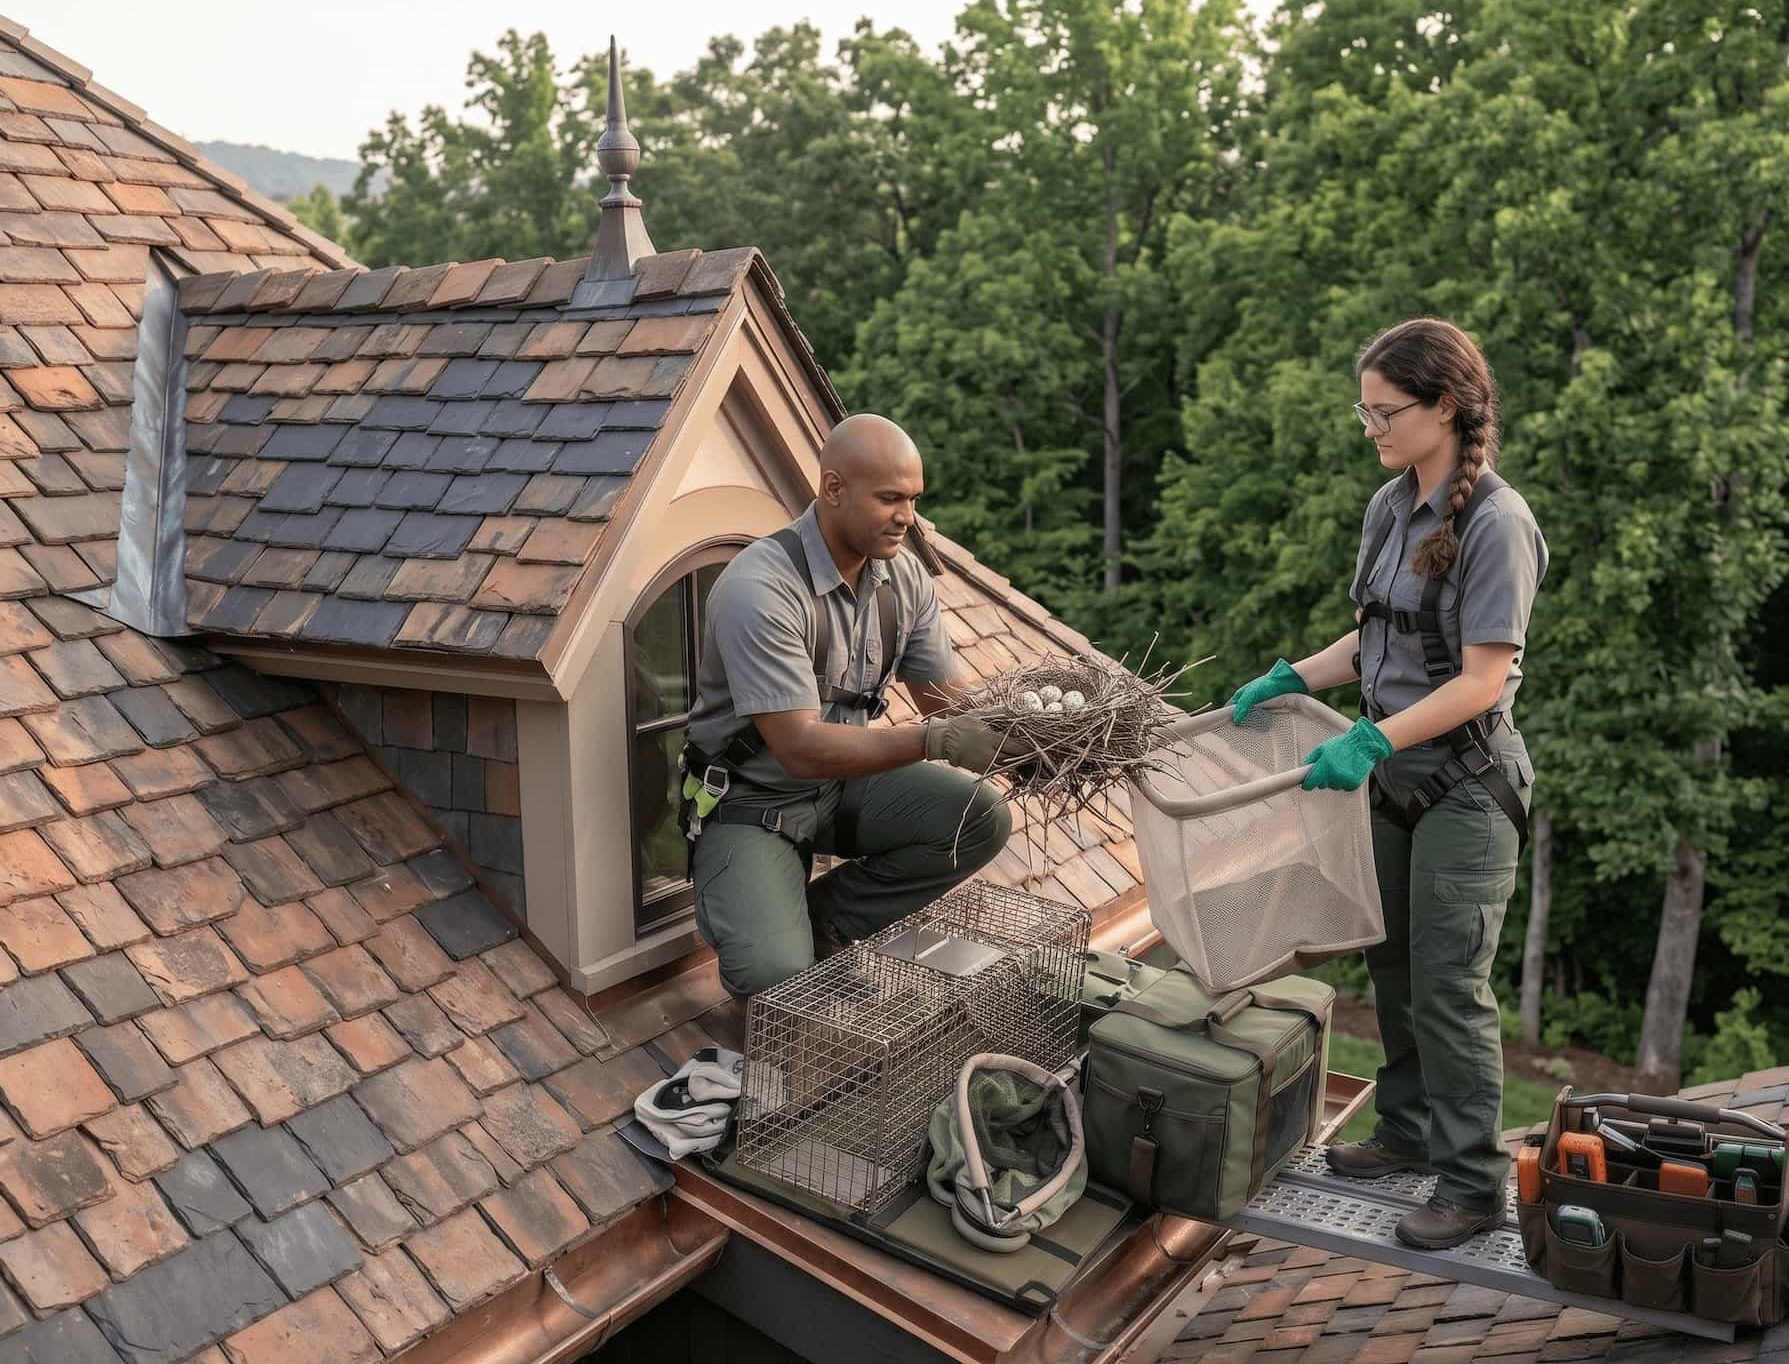
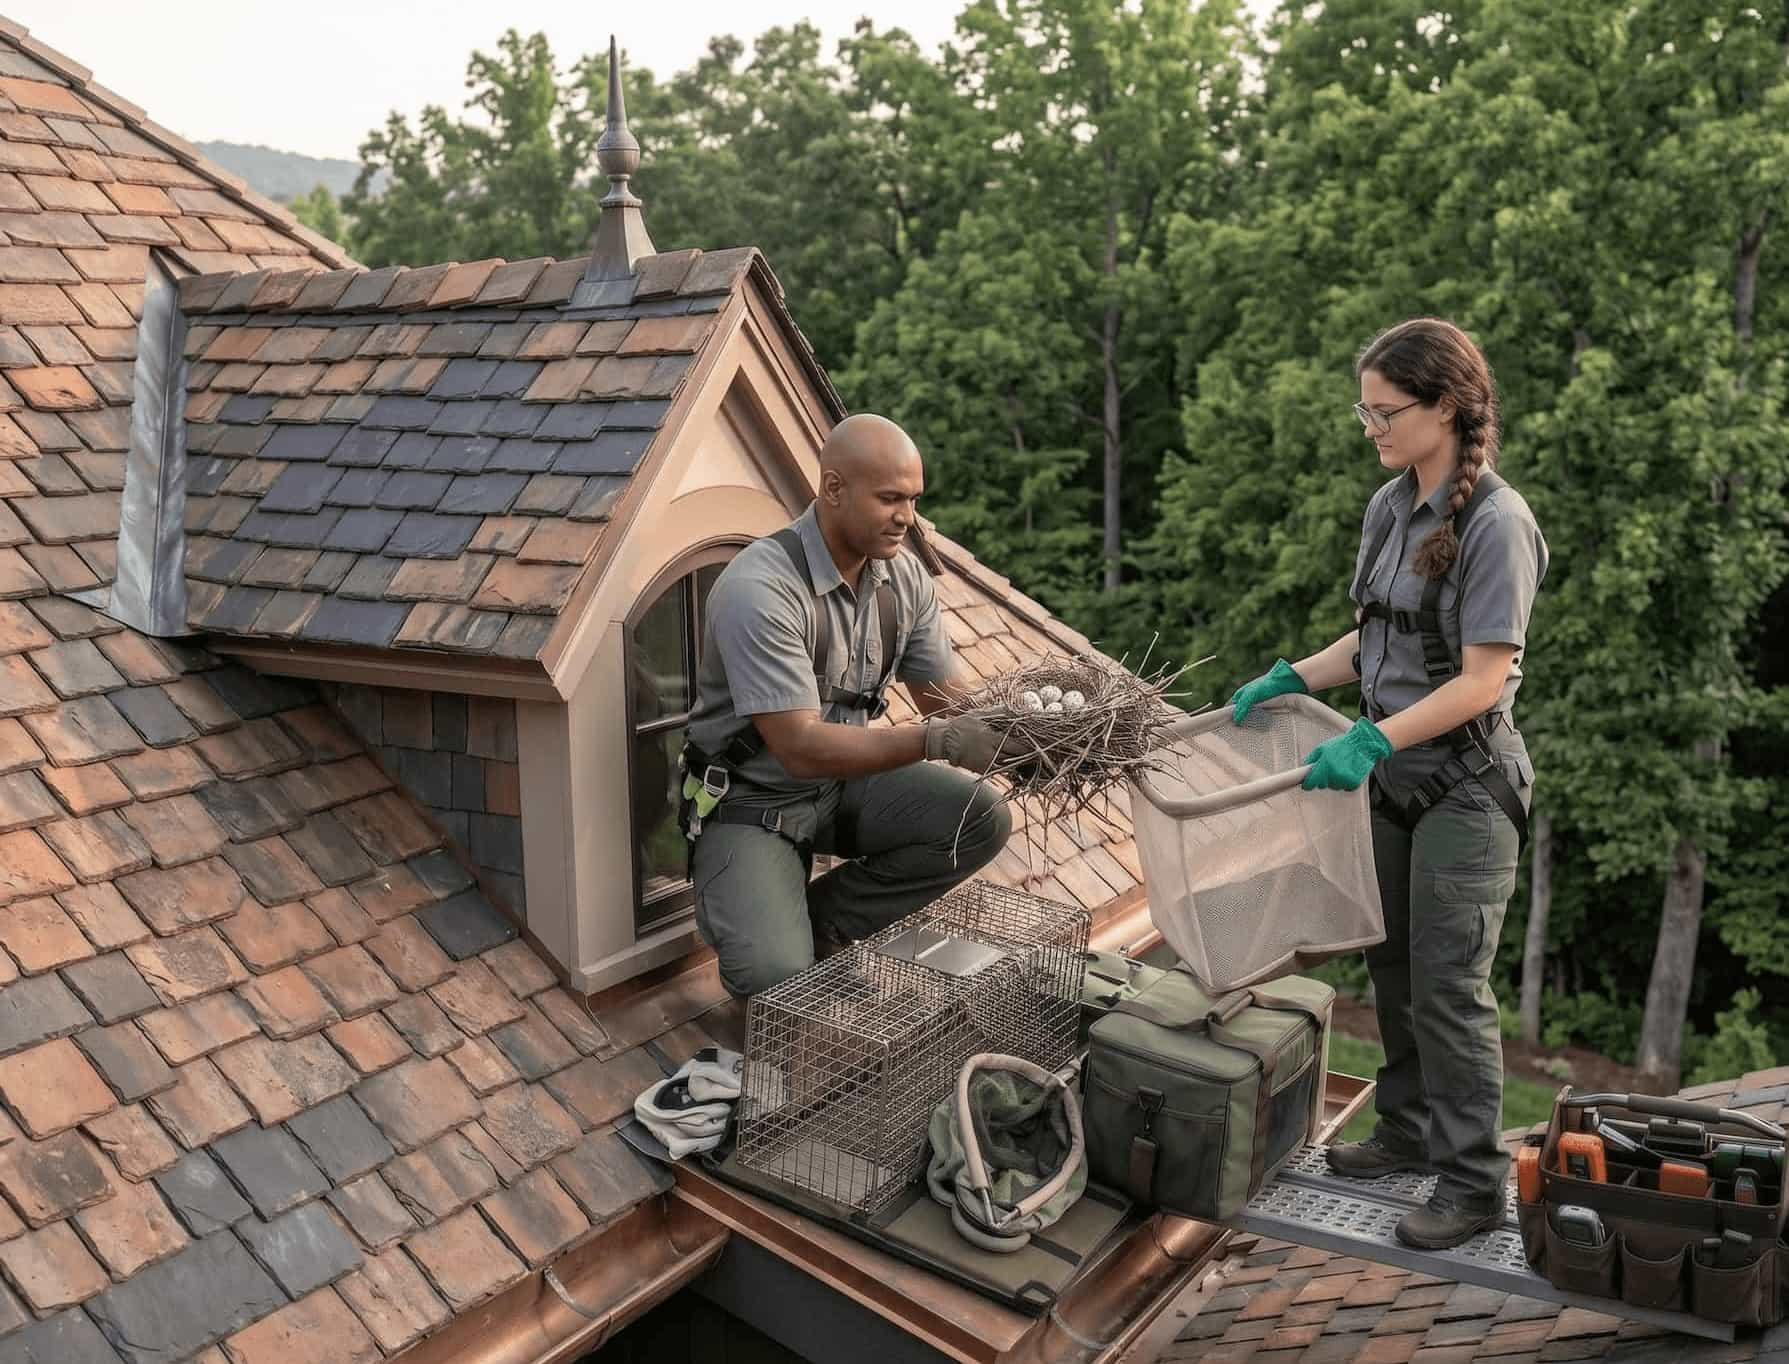
+

diff --git a/js/config.js b/js/config.js
@@ -240,7 +240,7 @@ window.WILD_GUARD_CONFIG = {
                 "WILD GUARD helps homeowners connect with independent local wildlife service providers for humane removal, exclusion, and prevention options.",
             primaryButton: "Get Matched",
             secondaryButton: "View Services",
-            image: "assets/images/home/wildlife-hero-raccoon.jpg",
+            image: "assets/images/home/home-hero.jpg",
             imageAlt:
                 "Raccoon on a residential roof near trees, representing wildlife activity around a home",
         },
@@ -266,27 +266,27 @@ window.WILD_GUARD_CONFIG = {
         wildlifeTypes: [
             {
                 title: "Raccoons",
-                image: "assets/images/wildlife/raccoon.jpg",
+                image: "assets/images/home/animal-raccoon.png",
             },
             {
                 title: "Squirrels",
-                image: "assets/images/wildlife/squirrel.jpg",
+                image: "assets/images/home/animal-squirrel.png",
             },
             {
                 title: "Bats",
-                image: "assets/images/wildlife/bat.jpg",
+                image: "assets/images/home/animal-bat.png",
             },
             {
                 title: "Birds",
-                image: "assets/images/wildlife/bird.jpg",
+                image: "assets/images/home/animal-bird.png",
             },
             {
                 title: "Opossums",
-                image: "assets/images/wildlife/opossum.jpg",
+                image: "assets/images/home/animal-opossum.png",
             },
             {
                 title: "Skunks",
-                image: "assets/images/wildlife/skunk.jpg",
+                image: "assets/images/home/animal-skunk.png",
             },
         ],
 

diff --git a/css/service-page.css b/css/service-page.css
@@ -16,6 +16,18 @@
     margin-bottom: 0 !important;
 }
 
+.service-detail-page .section {
+    padding-block: clamp(44px, 5.6vw, 78px);
+}
+
+.service-detail-page .section-sm {
+    padding-block: clamp(28px, 4vw, 54px);
+}
+
+.service-detail-page .section-heading {
+    margin-bottom: clamp(18px, 2.8vw, 34px);
+}
+
 .service-hero .container.service-hero-inner {
     width: min(1480px, calc(100% - 36px));
 }

diff --git a/css/legal.css b/css/legal.css
@@ -118,6 +118,13 @@
 .legal-sidebar {
     position: sticky;
     top: calc(var(--header-height) + 26px);
+    transform: none !important;
+}
+
+.legal-sidebar[data-aos],
+.legal-sidebar.aos-init,
+.legal-sidebar.aos-animate {
+    transform: none !important;
 }
 
 .legal-sidebar nav {

diff --git a/cookie-policy.html b/cookie-policy.html
@@ -237,7 +237,7 @@
         <section class="legal-content-section section-sm">
             <div class="container">
                 <div class="legal-layout">
-                    <aside class="legal-sidebar" data-aos="fade-right">
+                    <aside class="legal-sidebar">
                         <nav aria-label="Cookie policy sections">
                             <a href="#overview">Overview</a>
                             <a href="#what-cookies-are">What Cookies Are</a>

diff --git a/privacy-policy.html b/privacy-policy.html
@@ -235,7 +235,7 @@
         <section class="legal-content-section section-sm">
             <div class="container">
                 <div class="legal-layout">
-                    <aside class="legal-sidebar" data-aos="fade-right">
+                    <aside class="legal-sidebar">
                         <nav aria-label="Privacy policy sections">
                             <a href="#overview">Overview</a>
                             <a href="#information">Information We Collect</a>

diff --git a/services.html b/services.html
@@ -204,7 +204,7 @@
         
         <section class="services-hero section">
             <div class="services-hero-bg">
-                <img src="./assets/images/services/services-hero.jpg" alt="Wildlife guard near a home" />
+                <img src="./assets/images/services/exclusion-prevention.jpg" alt="Wildlife guard near a home" />
             </div>
 
             <div class="services-hero-overlay"></div>

diff --git a/terms-of-service.html b/terms-of-service.html
@@ -235,7 +235,7 @@
         <section class="legal-content-section section-sm">
             <div class="container">
                 <div class="legal-layout">
-                    <aside class="legal-sidebar" data-aos="fade-right">
+                    <aside class="legal-sidebar">
                         <nav aria-label="Terms of service sections">
                             <a href="#acceptance">Acceptance</a>
                             <a href="#platform-role">Platform Role</a>

diff --git a/wildlife-removal.html b/wildlife-removal.html
@@ -427,7 +427,7 @@
             <div class="container">
                 <div class="service-factors-layout">
                     <div class="service-factors-media" data-aos="fade-right">
-                        <img src="./assets/images/services/wildlife-removal-factors.jpg"
+                        <img src="./assets/images/services/services-cta.jpg"
                             alt="Home exterior detail with trees and possible wildlife access points" />
 
                         <div class="factors-media-badge">